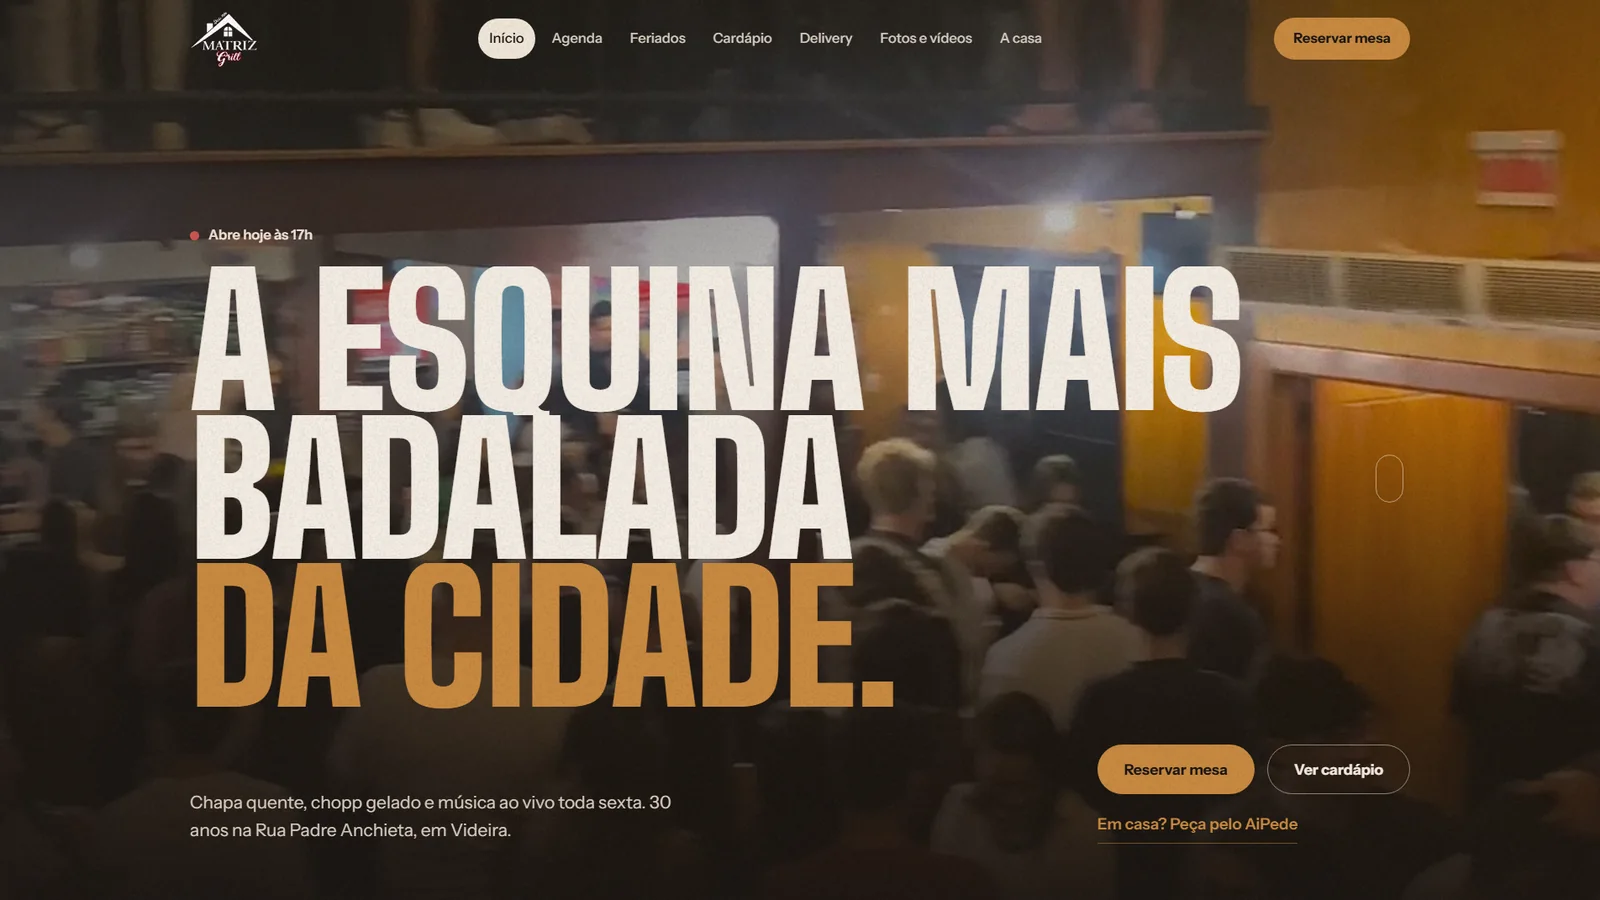
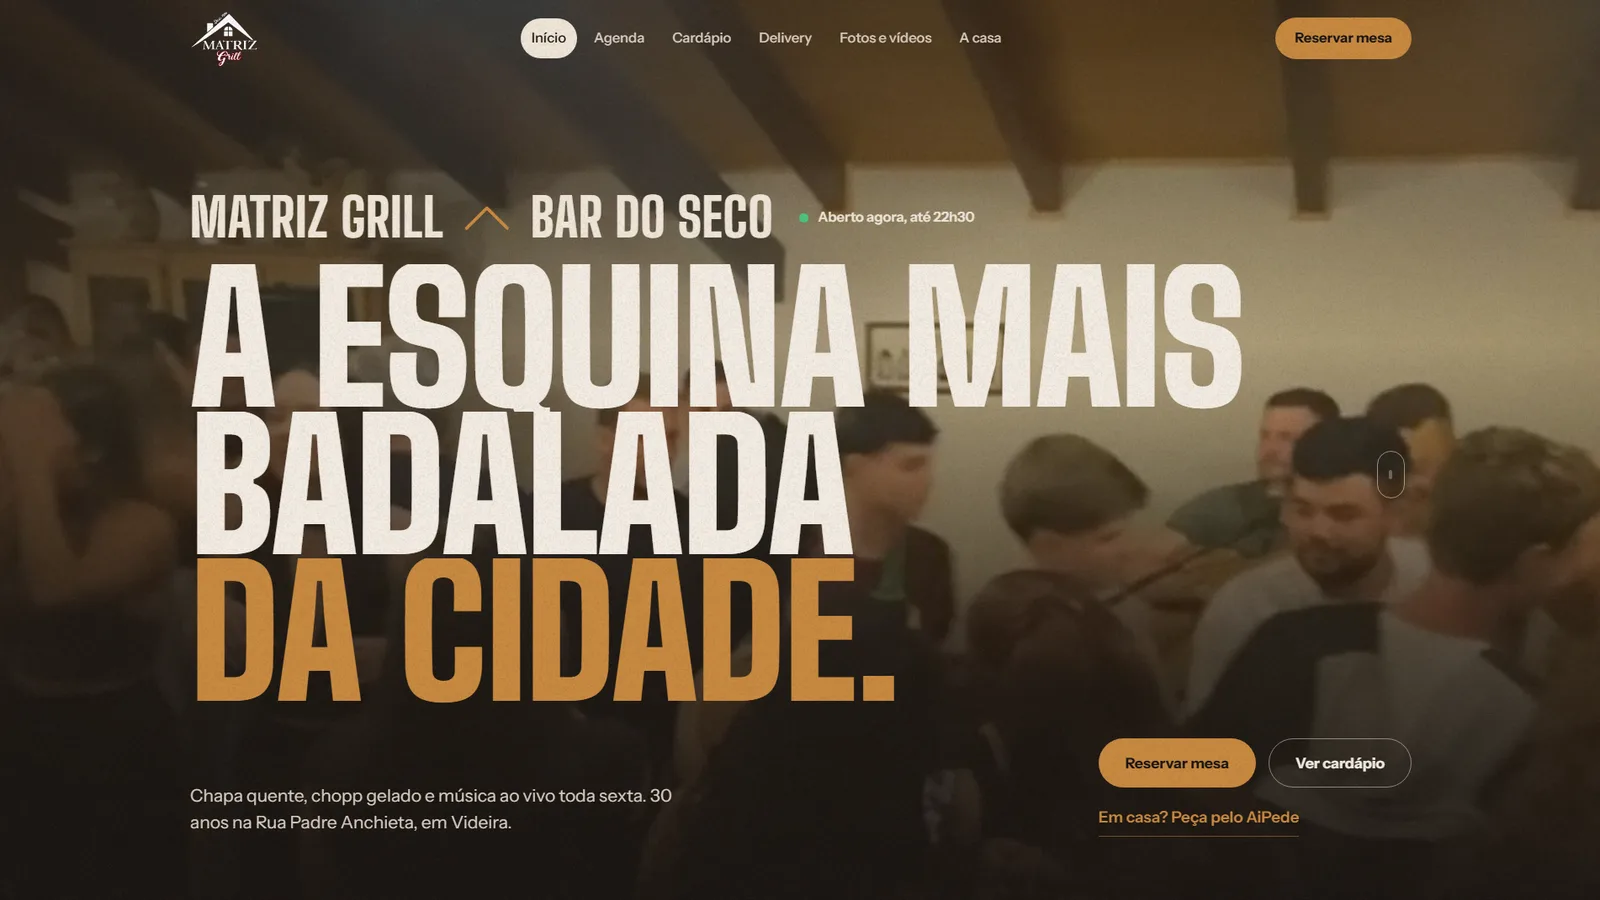
Portfólio: volta o Matriz Grill como cliente real, com estudo de caso completo
Claude-Session: https://claude.ai/code/session_015wsCWQHfkqKUAJ1vv4Zyqg

diff --git a/src/data/projects.ts b/src/data/projects.ts
@@ -5,13 +5,13 @@ import { casoSoray } from './casos/soray';
 import { casoMaria } from './casos/maria';
 import { casoDanielle } from './casos/danielle';
 import { casoNicole } from './casos/nicole';
+import { casoMatriz } from './casos/matriz';
 import vanguardaMockup from '../assets/modelos/figueiredo-advocacia.webp';
 import draMariaJunqueiraMockup from '../assets/clientes/maria-junqueira.webp';
 import draDanielleCarvaoMockup from '../assets/clientes/danielle-carvao.webp';
 import vivianeMengattoMockup from '../assets/clientes/viviane-mengatto.webp';
 import nicoleBordignonCapa from '../assets/clientes/nicole-bordignon.webp';
-// GUARDADO — Matriz Grill: fora do ar por enquanto. Para voltar a exibir, basta tirar as barras (//) deste trecho.
-// import matrizGrillMockup from '../assets/clientes/matriz-grill.webp';
+import matrizGrillMockup from '../assets/clientes/matriz-grill.webp';
 import carlaFigmamMockup from '../assets/images/carla_figmam_preview_1786812678656.jpg';
 
 export const projectsData: Project[] = [
@@ -156,34 +156,35 @@ export const projectsData: Project[] = [
     featured: true,
     caso: casoNicole
   },
-// GUARDADO — Matriz Grill: fora do ar por enquanto. Para voltar a exibir, basta tirar as barras (//) deste trecho.
-//   {
-//     id: "matriz-grill",
-//     slug: "matriz-grill",
-//     client: "Matriz Grill",
-//     category: "Gastronomia, Restaurante & Bar",
-//     planType: "SITE ESSENCIAL",
-//     projectType: "real",
-//     badge: "PROJETO REALIZADO • CLIENTE REAL",
-//     tagline: "Música ao vivo de alta qualidade, hambúrgueres artesanais, porções na chapa e o chopp mais gelado da região.",
-//     objective: "Desenvolvimento de site institucional e cardápio digital para a Matriz Grill, localizada na esquina mais badalada da cidade, com destaque para música ao vivo, combos de hambúrgueres artesanais, porções na chapa, vinhos de inverno, sopas e cremes reconfortantes e chopp gelado.",
-//     challenge: "Transmitir a atmosfera vibrante da casa, organizar as opções do cardápio gastronômico e facilitar reservas de mesas e localização para os clientes.",
-//     solution: "Layout contemporâneo com fotografias apetitosas em destaque, atmosfera acolhedora noturna, programação musical atualizada, cardápio digital e integração direta para reservas no WhatsApp.",
-//     structure: [
-//       "Hero visual com gastronomia, chopp artesanal e atmosfera noturna",
-//       "Apresentação da casa na esquina mais badalada e acolhedora da cidade",
-//       "Cardápio com combos artesanais, porções na chapa, sopas, cremes e vinhos selecionados",
-//       "Programação de música ao vivo de alta qualidade e eventos",
-//       "Horários de funcionamento, localização com mapa interativo e reservas",
-//       "Botão direto no WhatsApp para reservas de mesas e atendimento"
-//     ],
-//     style: "Identidade gastronômica calorosa em tons escuros e âmbar, tipografia marcante e fotografias apetitosas em alta definição.",
-//     results: "Site publicado com cardápio completo, agenda de shows, localização e canal direto de reservas via WhatsApp.",
-//     img: matrizGrillMockup,
-//     demo: "https://www.matrizgrillvideira.com.br/",
-//     technologies: ["React", "Tailwind CSS", "Cardápio Digital", "SEO Local", "WhatsApp Direct"],
-//     featured: true
-//   },
+  {
+    id: "matriz-grill",
+    slug: "matriz-grill",
+    client: "Matriz Grill",
+    category: "Gastronomia, Restaurante & Bar",
+    planType: "SITE ESSENCIAL",
+    projectType: "real",
+    badge: "PROJETO REALIZADO • CLIENTE REAL",
+    tagline: "Música ao vivo toda sexta, tábuas na chapa e chopp gelado. 30 anos na mesma esquina, em Videira.",
+    objective: "Site do Matriz Grill, o antigo Bar do Seco, em Videira, SC: apresentar a casa, a agenda de shows, o cardápio e o delivery, e levar a pessoa direto para a reserva de mesa.",
+    challenge: "Falar com quem frequenta a casa há 30 anos e com quem está procurando onde sair, mantendo agenda e cardápio fáceis de atualizar toda semana.",
+    solution: "Abertura com vídeos reais da casa cheia e os nomes Matriz Grill e Bar do Seco lado a lado, agenda com os cantores do mês, cardápio por categoria, área de delivery pelo AiPede e reserva pelo WhatsApp em todas as páginas.",
+    structure: [
+      "Abertura com vídeos da casa e os dois nomes em destaque",
+      "Agenda com os shows de sexta do mês e horários da casa",
+      "Cardápio: tábuas, hambúrgueres, porções, petiscos, sobremesas e bar",
+      "Delivery pelo aplicativo AiPede",
+      "Fotos e vídeos separados por ao vivo, cozinha e casa",
+      "A casa: história desde 1996 e foto de antes e depois da esquina",
+      "Endereço com mapa, contato e reserva pelo WhatsApp"
+    ],
+    style: "Carvão e madeira escura com detalhes cor de mel, títulos altos e condensados como letreiro de bar e fotos reais da casa.",
+    results: "Site publicado no domínio próprio, com agenda e cardápio atualizados e reserva de mesa a um toque pelo WhatsApp.",
+    img: matrizGrillMockup,
+    demo: "https://www.matrizgrillvideira.com.br/",
+    technologies: ["Agenda de shows", "Cardápio por categoria", "Delivery AiPede", "WhatsApp direto", "Domínio próprio"],
+    featured: true,
+    caso: casoMatriz
+  },
 
   // MODELOS DE REFERÊNCIA — DEMONSTRATIVOS
   {

diff --git a/src/data/casos/matriz.ts b/src/data/casos/matriz.ts
@@ -1,0 +1,86 @@
+// Estudo de caso do Matriz Grill (página /portfolio/matriz-grill/).
+import { Caso } from '../../types';
+import telaAgenda from '../../assets/casos/matriz/tela-agenda.webp';
+import telaCardapio from '../../assets/casos/matriz/tela-cardapio.webp';
+import telaCasa from '../../assets/casos/matriz/tela-casa.webp';
+import telaDelivery from '../../assets/casos/matriz/tela-delivery.webp';
+import celularCapa from '../../assets/casos/matriz/celular-capa.webp';
+import celularAgenda from '../../assets/casos/matriz/celular-agenda.webp';
+import celularCardapio from '../../assets/casos/matriz/celular-cardapio.webp';
+import celularDelivery from '../../assets/casos/matriz/celular-delivery.webp';
+
+export const casoMatriz: Caso = {
+  resumo: 'Site para bar e restaurante em Videira, SC. Agenda de shows, cardápio completo, delivery e reserva de mesa pelo WhatsApp.',
+  ficha: [
+    { rotulo: 'Área', valor: 'Restaurante e bar' },
+    { rotulo: 'Local', valor: 'Videira, SC' },
+    { rotulo: 'Plano', valor: 'Site Essencial' },
+    { rotulo: 'No ar desde', valor: 'Outubro de 2026' },
+  ],
+  palco: { fundo: '#1A1512', moldura: '#4A2F1C' },
+  capaCelular: celularCapa,
+  contexto: [
+    'O Matriz Grill começou em 1996 como Bar do Seco, numa casa de madeira na mesma esquina da Rua Padre Anchieta. Em 2026 completa 30 anos, com música ao vivo toda sexta, tábuas na chapa e chopp gelado.',
+    'O site precisava funcionar para dois públicos: quem frequenta há anos e ainda chama a casa de Bar do Seco, e quem procura onde sair em Videira. Por isso os dois nomes aparecem lado a lado logo na abertura, com vídeos reais da casa cheia.',
+  ],
+  cores: {
+    texto: 'Carvão e madeira escura, com mel nos botões e vinho na área de delivery.',
+    paleta: [
+      { nome: 'Carvão', hex: '#1A1512', escura: true },
+      { nome: 'Nogueira', hex: '#4A2F1C', escura: true },
+      { nome: 'Vinho', hex: '#650113', escura: true },
+      { nome: 'Mel', hex: '#C8893F' },
+      { nome: 'Creme', hex: '#EFE6D8' },
+    ],
+  },
+  fonte: {
+    nome: 'Big Shoulders Display',
+    uso: 'Nos títulos, uma letra alta e condensada, com cara de letreiro de bar. Nos textos, Instrument Sans.',
+    amostra: 'A esquina mais badalada da cidade.',
+    css: '"Big Shoulders Display", sans-serif',
+    link: 'https://fonts.googleapis.com/css2?family=Big+Shoulders+Display:wght@800&display=swap',
+    peso: 800,
+    maiusculas: true,
+  },
+  telas: [
+    {
+      img: telaAgenda,
+      titulo: 'Agenda do mês',
+      texto: 'Os próximos shows de sexta e os horários da casa. O próximo show fica em destaque, com o botão de reservar mesa.',
+    },
+    {
+      img: telaCardapio,
+      titulo: 'Cardápio por categoria',
+      texto: 'Tábuas, hambúrgueres, porções, petiscos, sobremesas e bar, cada um com ingredientes e preço. O cardápio digital completo fica a um toque.',
+    },
+    {
+      img: telaCasa,
+      titulo: 'A mesma esquina',
+      texto: 'Uma foto de antes e depois que a pessoa arrasta para comparar o Bar do Seco de antigamente com o Matriz Grill de hoje.',
+    },
+    {
+      img: telaDelivery,
+      titulo: 'Delivery',
+      texto: 'Uma área só para o pedido em casa, levando direto para o aplicativo AiPede na App Store e no Google Play.',
+    },
+  ],
+  celular: {
+    texto: 'No celular, a barra de baixo deixa reservar, ver o cardápio e pedir delivery sempre à mão.',
+    fundo: '#C8893F',
+    telas: [
+      { img: celularAgenda, legenda: 'Agenda' },
+      { img: celularCardapio, legenda: 'Cardápio' },
+      { img: celularDelivery, legenda: 'Delivery' },
+    ],
+  },
+  entregas: [
+    'Site com abertura em vídeo, agenda, cardápio, delivery, fotos e vídeos e história da casa',
+    'Agenda com os cantores do mês inteiro e horários de funcionamento',
+    'Cardápio com seis categorias, ingredientes e preços',
+    'Galeria de fotos e vídeos separada por ao vivo, cozinha e casa',
+    'Reserva de mesa pelo WhatsApp e link para o delivery no AiPede',
+    'Endereço com mapa, Instagram e grupo do WhatsApp',
+    'Domínio próprio: matrizgrillvideira.com.br',
+    'Versão para computador e para celular',
+  ],
+};

diff --git a/src/data/clientesDestaque.ts b/src/data/clientesDestaque.ts
@@ -5,8 +5,7 @@ import mariaJunqueira from '../assets/clientes/maria-junqueira.webp';
 import danielleCarvao from '../assets/clientes/danielle-carvao.webp';
 import vivianeMengatto from '../assets/clientes/viviane-mengatto.webp';
 import nicoleBordignon from '../assets/clientes/nicole-bordignon.webp';
-// GUARDADO — Matriz Grill: fora do ar por enquanto. Para voltar a exibir, basta tirar as barras (//) deste trecho.
-// import matrizGrill from '../assets/clientes/matriz-grill.webp';
+import matrizGrill from '../assets/clientes/matriz-grill.webp';
 
 export type ClienteDestaque = {
   cliente: string;
@@ -22,6 +21,5 @@ export const clientesDestaque: ClienteDestaque[] = [
   { cliente: 'Dra. Danielle Carvão', area: 'Odontologia e rejuvenescimento facial', img: danielleCarvao, link: 'https://dradanicarvao.com.br/', slug: 'dra-danielle-carvao' },
   { cliente: 'Dra. Viviane Mengatto', area: 'Estética avançada', img: vivianeMengatto, link: 'https://www.dravivianemengatto.com.br/', slug: 'dra-viviane-mengatto' },
   { cliente: 'Nicole Bordignon', area: 'Sobrancelhas e maquiagem', img: nicoleBordignon, link: 'https://nicolebordignon.mleedigital.com.br/', slug: 'nicole-bordignon' },
-// GUARDADO — Matriz Grill: fora do ar por enquanto. Para voltar a exibir, basta tirar as barras (//) deste trecho.
-//   { cliente: 'Matriz Grill', area: 'Restaurante e bar', img: matrizGrill, link: 'https://www.matrizgrillvideira.com.br/', slug: 'matriz-grill' },
+  { cliente: 'Matriz Grill', area: 'Restaurante e bar', img: matrizGrill, link: 'https://www.matrizgrillvideira.com.br/', slug: 'matriz-grill' },
 ];

diff --git a/src/data/segments.ts b/src/data/segments.ts
@@ -259,8 +259,7 @@ export const segmentsData: Record<string, SegmentInfo> = {
       { q: "Como faço para trocar produtos e preços?", a: "Você me manda as mudanças e eu atualizo. Isso já está incluso na manutenção mensal." },
       { q: "O cliente paga pelo catálogo?", a: "O pedido chega no seu WhatsApp e o pagamento é combinado com você, do jeito que você já trabalha." }
     ],
-// GUARDADO — Matriz Grill: fora do ar por enquanto. Para voltar a exibir, basta tirar as barras (//) deste trecho.
-//     relatedProjectSlug: "matriz-grill",
+    relatedProjectSlug: "matriz-grill",
     metaDescription: "Catálogo digital para lojas, restaurantes e negócios que vendem produtos: itens organizados, fotos e pedido direto pelo WhatsApp. Criado pela Márcia, da MLee Digital.",
     keywords: ["catálogo digital", "catálogo online WhatsApp", "cardápio digital", "catálogo de produtos online"]
   }
